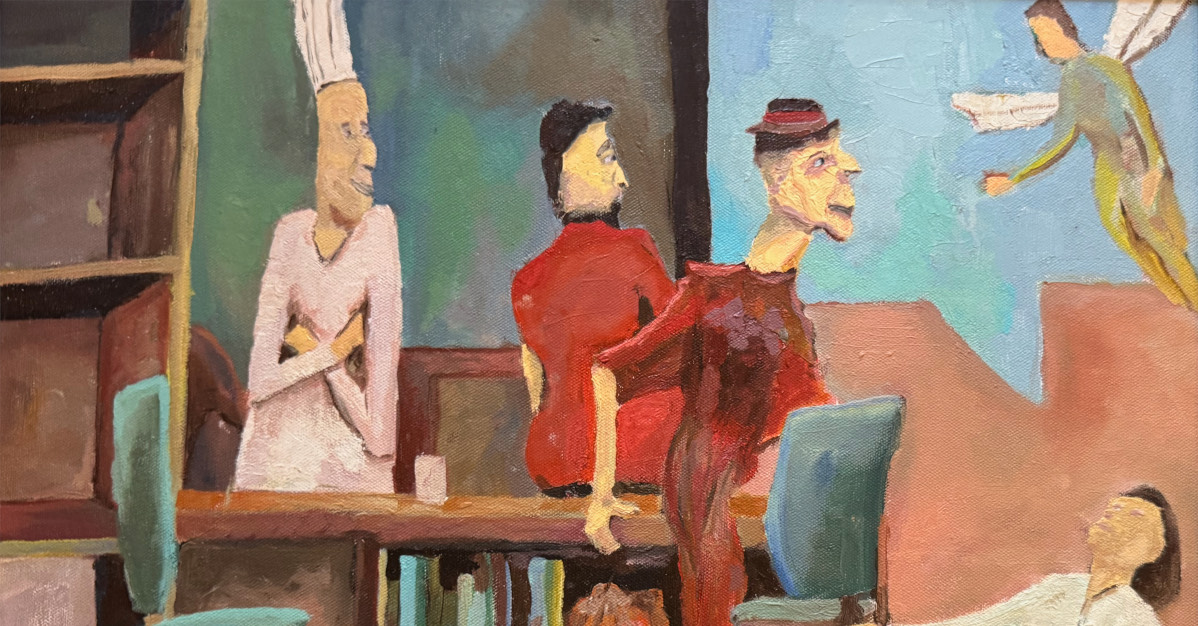
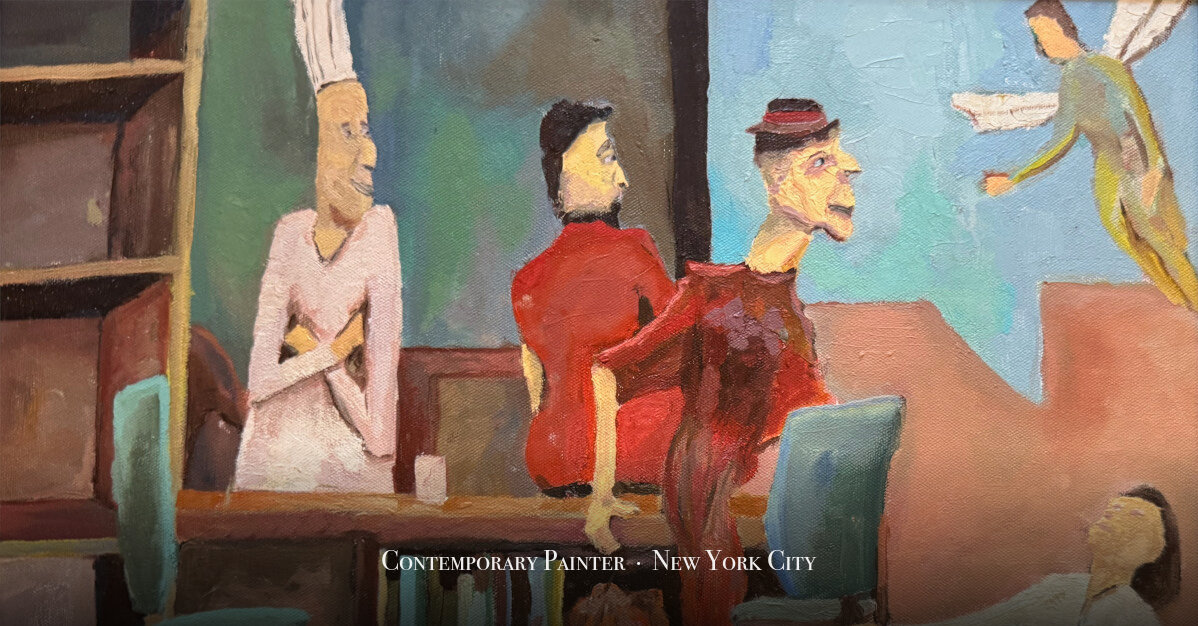
Add subtitle overlay to OG image and improve og:title

Changed region(s): [[0.0, 0.7284, 1.0, 1.0]]

diff --git a/index.html b/index.html
@@ -4,7 +4,7 @@
     <meta charset="UTF-8">
     <meta name="viewport" content="width=device-width, initial-scale=1.0">
     <meta name="description" content="Contemporary artist exploring abstract landscapes through mythical narratives. View paintings and artwork by Niklas Dorsch.">
-    <meta property="og:title" content="Niklas Dorsch">
+    <meta property="og:title" content="Niklas Dorsch — Original Oil Paintings from New York">
     <meta property="og:description" content="Niklas Dorsch is a contemporary painter based in New York City, exploring abstraction through paint, myth, and the figure.">
     <meta property="og:type" content="website">
     <meta property="og:url" content="https://niklasdorsch.com">
